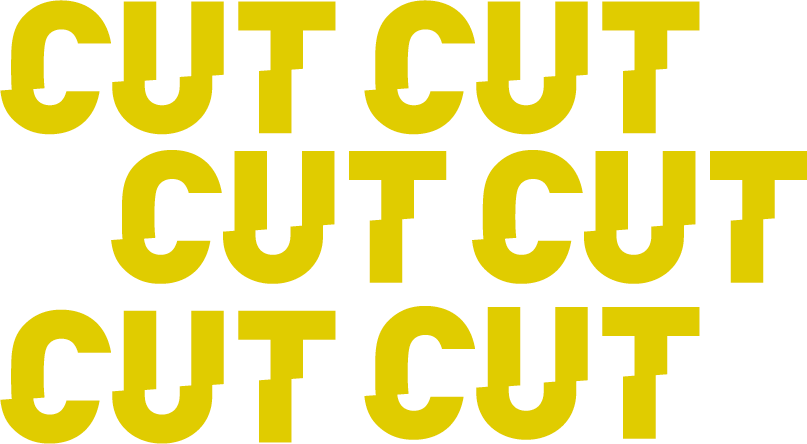
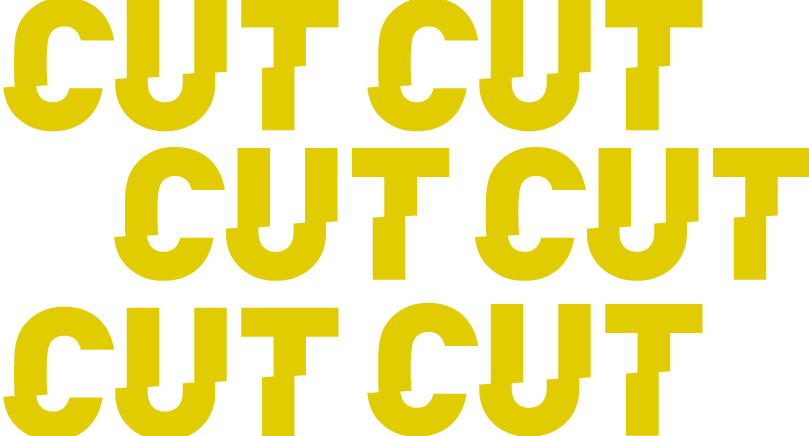
amends

diff --git a/work/freelance/academy.html b/work/freelance/academy.html
@@ -114,15 +114,12 @@
      3-COL — TRIPLE IMAGE
 ═════════════════════════════════════════════════════════ -->
 <div class="three-col">
-  <div class="three-col-image">
-    <img src="freelance_image/Asset_10.png" alt="small image">
-  </div>
+  <div class="three-col-image dots-pattern"></div>
+
   <div class="three-col-image" style="background-color: white;">
     <img src="freelance_image/Asset_12.png" alt="small image">
   </div>
-  <div class="three-col-image">
-    <img src="freelance_image/Asset_10.png" alt="small image">
-  </div>
+<div class="three-col-image diagonal-split"></div>
 </div>
 
 
@@ -131,13 +128,13 @@
 ═════════════════════════════════════════════════════════ -->
 <div class="three-col">
   <div class="three-col-image">
-    <img src="" style="background-color: white;" alt="small image">
+    <img src="freelance_image/academy-font.webp" class="img-contain" style="background-color: white;" alt="small image">
   </div>
   <div class="three-col-image-mid" style="background-color: white;">
     <img src="freelance_image/Asset_6.png" alt="small image">
   </div>
   <div class="three-col-image">
-    <img src="#" style="background-color: white;" alt="small image">
+    <img src="freelance_image/academy-palette.webp" class="img-contain" style="background-color: white;" alt="small image">
   </div>
 </div>
 

diff --git a/css/showcase.css b/css/showcase.css
@@ -356,6 +356,36 @@
   width:50%;height:auto;object-fit:contain;
 }
 
+.img-contain {
+  width: 100%;
+  height: 100%;
+  object-fit: contain;
+  display: block;
+}
+
+.three-col-image img.img-contain {
+  object-fit: contain;
+  padding: 0 16px;  /* adjust 16px to taste */
+}
+
+.diagonal-split {
+  min-height: 280px;
+  background: linear-gradient(
+    to bottom left,
+    #000000 50%,
+    #dadada 50%
+  );
+}
+
+.dots-pattern {
+  background-color: #ffffff;
+  background-image: 
+    radial-gradient(circle, #ffed00 40%, transparent 40%),
+    radial-gradient(circle, #ffed00 40%, transparent 40%);
+  background-size: 100px 100px;
+  background-position: 0 0, 50px 50px;
+}
+
 /* ─── HORIZONTAL IMAGE SCROLLER ─────────────────────── */
 .h-scroll-track {
   position: relative;

diff --git a/index.html b/index.html
@@ -73,7 +73,7 @@
     </a>
 
     <a class="gallery-item" href="/work/personal/type.html" style="--item-color:#A29BFE">
-      <img src="images/now.jpg" alt="Type">
+      <img src="images/type-theend.jpg" alt="Type">
       <div class="g-overlay"></div><div class="g-bar"></div>
       <div class="gallery-caption">
         <p class="cat">Type Design</p><p class="title">Lettering</p>
@@ -105,7 +105,7 @@
     </a>
 
     <a class="gallery-item" href="#" style="--item-color:#74B9FF">
-      <img src="images/richmond.jpg" alt="Bantr">
+      <img src="images/richmond2.jpg" alt="Bantr">
       <div class="g-overlay"></div><div class="g-bar"></div>
       <div class="gallery-caption">
         <p class="cat">Sports Branding</p><p class="title">Richmond AFC</p>

diff --git a/work/freelance/rzr.html b/work/freelance/rzr.html
@@ -122,10 +122,10 @@
 ═════════════════════════════════════════════════════════ -->
 <div class="three-col">
   <div class="three-col-image">
-    <img src="freelance_image/rzr1.jpg" alt="small image">
+    <img src="freelance_image/rzr5.jpg" alt="small image">
   </div>
   <div class="three-col-image">
-    <img src="freelance_image/rzr2.jpg" alt="small image">
+    <img src="freelance_image/rzr6.jpg" alt="small image">
   </div>
   <div class="three-col-image">
     <img src="freelance_image/rzr3.jpg" alt="small image">
